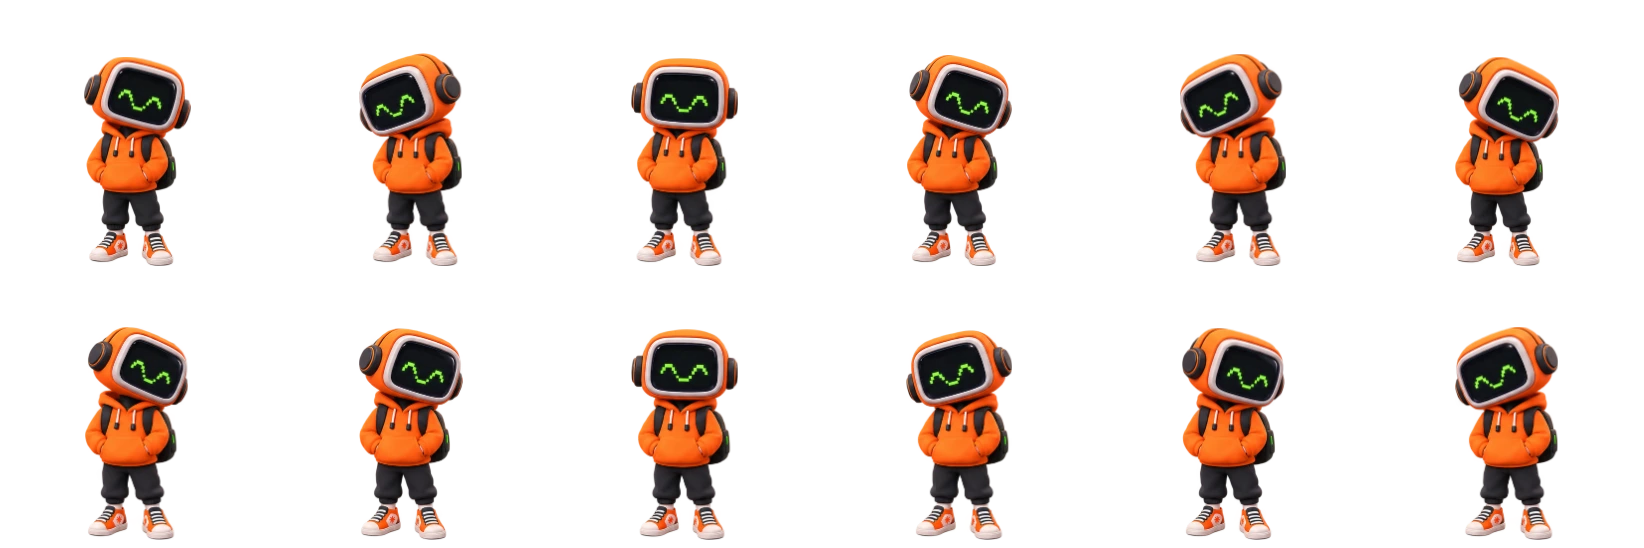
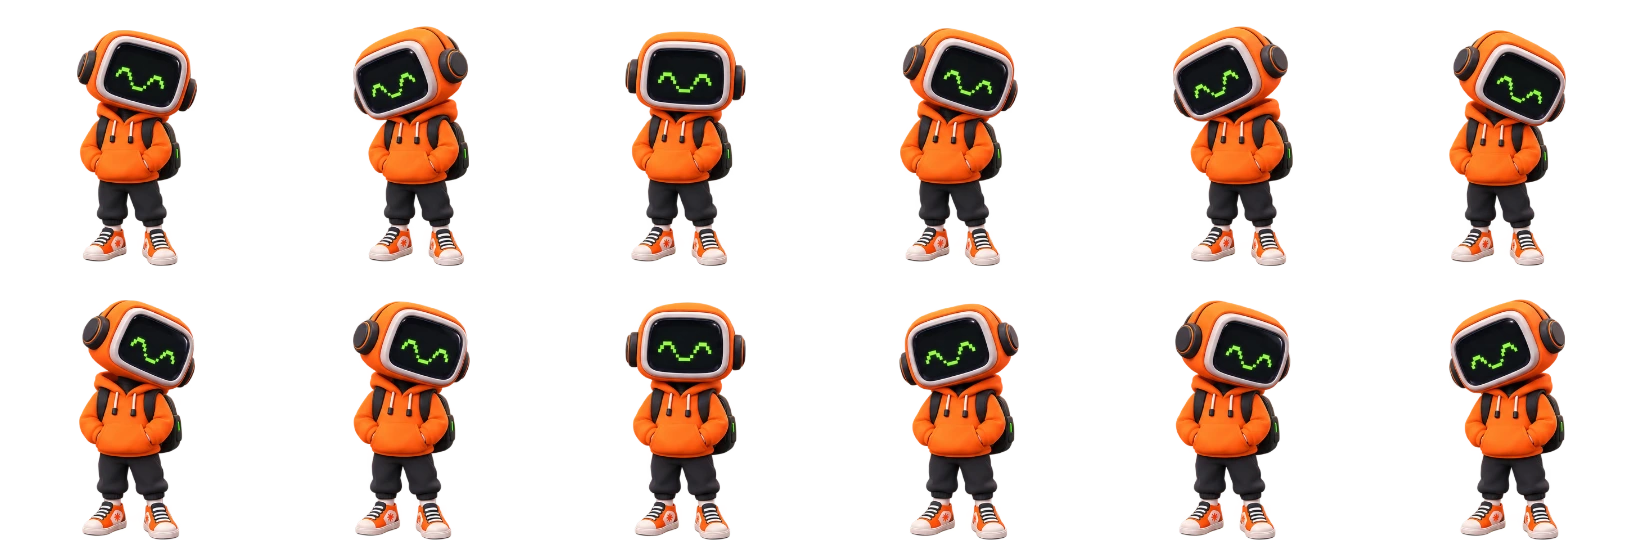
Swap in the moonwalk-only cycle, trigger it on hover, stand it on a plinth
HOVER, NOT CLICK, and that changes what the control is. A click is a request
that something happen; hover is only attention. So the moonwalk loops for
exactly as long as the pointer is on the character and drops back to vibing the
moment it leaves — nothing to finish, nothing to sit through. Focus does the
same, because hover is not available to everybody and a keyboard should not be
shut out of the one toy on the page.

That also lets both poses loop, where the dab had to play once: a dab has a
beginning and an end, a moonwalk is a cycle.

THE PLINTH sits behind the character, sized and placed in fractions of the
mascot's own width so the two cannot drift apart at any viewport. The character
stands about 40% down the stage rather than on its front edge at 47% — a step
back from the lip is where a figure has to be for a plinth to read as something
it is standing on. It also had to move up: flush above the strip there was no
room for the plinth's front face and the whole thing was a lip. The spotlight
is already in the file, as the top face's gradient; no light asset was added.

THE NORMALISER learned two things, both from this sheet.

Figures can TOUCH. MASCOT_MOONWALK_ONLY packs eight across 1536 at a 192px
pitch and neighbouring shoes overlap, so there is no empty column to split on:
band detection found five columns, not eight, and merged three figures into
one. But the sheet is still on a grid — the occupancy minima land within six
[…]

diff --git a/assets/js/sections.js b/assets/js/sections.js
@@ -1807,13 +1807,13 @@
        one-for-one — nine times normal through twelve frames is a flicker, not
        a dance — so it takes a fifth of the excess and caps at 1.8.
 
-       The moonwalk does NOT follow the strip. It is a performance someone
-       asked for, so it plays at its own tempo whatever the scroll is doing,
-       and it plays even while the strip is paused: a direct answer to a click
-       outranks the ambient state of the page. */
+       The moonwalk does NOT follow the strip. It is danced at somebody, so it
+       keeps its own tempo whatever the scroll is doing, and it dances even
+       while the strip is paused: a direct answer to a pointer outranks the
+       ambient state of the page. */
     const POSES = {
-      vibe: { cols: 6, rows: 2, frames: 12, cycle: 1900, loop: Infinity },
-      walk: { cols: 6, rows: 4, frames: 24, cycle: 2100, loop: 1 },
+      vibe: { cols: 6, rows: 2, frames: 12, cycle: 1900 },
+      walk: { cols: 8, rows: 3, frames: 24, cycle: 1500 },
     };
     const mascot = document.getElementById('sx-mv-mascot');
     let sprite = null, posing = false;
@@ -1841,7 +1841,7 @@
       const pose = POSES[name];
       mascot.dataset.pose = name;
       sprite = mascot.animate(poseKeys(pose),
-        { duration: pose.cycle, iterations: pose.loop });
+        { duration: pose.cycle, iterations: Infinity });
       return sprite;
     };
 
@@ -1906,44 +1906,65 @@
       else { if (posing && sprite) sprite.play(); applySpeed(); }
     });
 
-    /* --- asking for the moonwalk --- */
+    /* --- asking for the moonwalk ---
+       Hover, not click, and that changes what this control IS. A click is a
+       request that something happen; hover is only attention. So the moonwalk
+       loops for exactly as long as the pointer is on the character and drops
+       back to vibing the moment it leaves — nothing to finish, nothing to sit
+       through. That also lets both poses loop, where the dab sheet had to play
+       once: a dab has a beginning and an end, a moonwalk is a cycle.
+
+       Focus does the same thing, because hover is not available to everybody
+       and a keyboard should not be shut out of the one toy on the page. It is
+       also why this stays a <button>: the only element that is reliably
+       focusable and announced, and tabbing to it does what its label says. */
     if (mascot && mascot.animate) {
       playPose('vibe');
       applySpeed();
 
-      /* The walk sheet is 470KB and only ever wanted after a click, so it is
-         not fetched with the page. Hovering or tabbing to the mascot is the
-         intent signal; by the time the click lands it is usually decoded. */
-      let warm = null;
+      /* The walk sheet is only wanted once somebody reaches for the character,
+         so it is not fetched with the page. With a click there was a hover
+         beforehand to warm it; with hover there is no earlier signal, so the
+         first hover has to decode before it can switch — hence `wants`, which
+         catches the pointer having left while that was happening. */
+      let warm = null, wants = false;
       const preload = () => {
         if (warm) return warm;
         const img = new Image();
-        img.src = getComputedStyle(mascot, null)
-          .getPropertyValue('background-image')
-          .replace(/^url\(["']?/, '').replace(/["']?\)$/, '')
-          .replace('mascot_music_vibe', 'mascot_moonwalk_dab2');
+        img.src = getComputedStyle(mascot).getPropertyValue('--sx-mv-walk')
+          .trim().replace(/^url\(["']?/, '').replace(/["']?\)$/, '');
         warm = img.decode().catch(() => {});
         return warm;
       };
-      mascot.addEventListener('pointerenter', preload, { once: true });
-      mascot.addEventListener('focus', preload, { once: true });
 
-      mascot.addEventListener('click', async () => {
+      const dance = async () => {
         if (posing) return;
-        posing = true;
-        mascot.setAttribute('data-busy', '');
-        /* Decode before switching, or the first click on a cold cache swaps to
-           an image that is not there yet and the character blinks out. */
+        posing = true; wants = true;
         await preload();
-        const run = playPose('walk');
-        if (!run) { posing = false; mascot.removeAttribute('data-busy'); return; }
-        run.playbackRate = 1;
-        try { await run.finished; } catch { /* cancelled — pose already moved on */ }
+        if (!wants) { posing = false; return; }
+        playPose('walk');
+        sprite.playbackRate = 1;
+      };
+      const settle = () => {
+        wants = false;
+        if (!posing) return;
         posing = false;
-        mascot.removeAttribute('data-busy');
         playPose('vibe');
         applySpeed();
+      };
+
+      mascot.addEventListener('pointerenter', e => {
+        if (e.pointerType === 'touch') return;
+        dance();
       });
+      mascot.addEventListener('pointerleave', settle);
+      /* A pointer can vanish without leaving — captured elsewhere, or the
+         window goes away mid-hover — and the character is left dancing to
+         nobody. */
+      mascot.addEventListener('pointercancel', settle);
+      addEventListener('blur', settle);
+      mascot.addEventListener('focus', dance);
+      mascot.addEventListener('blur', settle);
     }
 
     /* The strip used to bend away at both ends — each cell turned about Y by

diff --git a/assets/css/sections.css b/assets/css/sections.css
@@ -509,12 +509,18 @@
 
    WebP: 143KB and 470KB against 1.5MB and 2.1MB as PNG. This page already
    needs container queries, which need a newer browser than WebP does. */
+.sx-mv-lede { --sx-mv-w: clamp(120px, 13vw, 210px); }
 .sx-mv-mascot {
   position: absolute;
-  right: 0;
-  bottom: -1.25rem;
+  /* Standing ON the plinth, so both numbers are the plinth's geometry rather
+     than the section's: far enough in from the right to sit near the middle of
+     the surface, and high enough that the plinth's front face has somewhere to
+     be. It used to sit flush above the strip, which left the plinth nothing
+     but a lip. */
+  right: calc(var(--sx-mv-w) * 0.55);
+  bottom: calc(var(--sx-mv-w) * 0.386);
   z-index: 1;
-  width: clamp(120px, 13vw, 210px);
+  width: var(--sx-mv-w);
   aspect-ratio: 1;
   padding: 0;
   border: 0;
@@ -533,12 +539,43 @@
   background-image: url("../../public/img/mascot_music_vibe.webp");
   background-size: 600% 200%;
 }
+/* The walk sheet's URL also lives as a custom property, because the preloader
+   has to know it before the pose has switched to it. One place to change. */
+.sx-mv-mascot { --sx-mv-walk: url("../../public/img/MASCOT_MOONWALK_ONLY.webp"); }
 .sx-mv-mascot[data-pose="walk"] {
-  background-image: url("../../public/img/mascot_moonwalk_dab2.webp");
-  background-size: 600% 400%;
+  background-image: var(--sx-mv-walk);
+  background-size: 800% 300%;
 }
+/* --- the stage ---
+   The plinth the character stands on. Sits behind the mascot and is sized off
+   it, so the two cannot drift apart: the SVG's own top face ends 105 of its
+   224 units down, which is the line the feet have to meet.
+
+   Its own gradients fade to transparent at both far edges, so it needs no mask
+   and no ground of its own — it simply thins out into the page. */
+.sx-mv-stage {
+  position: absolute;
+  z-index: 0;
+  pointer-events: none;
+  width: calc(var(--sx-mv-w) * 2.35);
+  aspect-ratio: 763 / 224;
+  /* Both offsets are fractions of the mascot's width, so the character and the
+     thing it stands on cannot drift apart at any viewport size.
+
+     The vertical number puts the feet about 40% down the stage rather than on
+     its front edge at 47% — standing ON the surface, a step back from the lip,
+     which is where a figure has to be for the plinth to read as something it
+     is on rather than something it is balanced against. */
+  bottom: 0;
+  right: 0;
+  background: url("../../public/img/mascot-dance-platform.svg") no-repeat center/contain;
+  opacity: .9;
+}
+
 /* It is a control, so it says so — but quietly. A character that grows under
-   the pointer is the whole affordance; a border would make it a widget. */
+   the pointer is the whole affordance; a border would make it a widget. The
+   stage does not grow with it: a plinth that scales is a picture of a plinth,
+   not a thing being stood on. */
 @media (hover: hover) {
   .sx-mv-mascot:hover { transform: scale(1.05); opacity: 1; }
 }
@@ -616,7 +653,7 @@
 }
 
 @media (max-width: 860px) {
-  .sx-mv-mascot { display: none; }
+  .sx-mv-mascot, .sx-mv-stage { display: none; }
   .sx-mv-head { max-width: none; }
 }
 
@@ -638,6 +675,7 @@
      than staying one that does nothing. JS drops its button semantics to
      match; this is the half that stops it looking clickable. */
   #sx-move .sx-mv-mascot { cursor: default; pointer-events: none; }
+  #sx-move .sx-mv-stage { opacity: .9; }
   #sx-move .sx-reel-strip { animation: none; transform: none; }
   #sx-move .sx-reel {
     overflow-x: auto;

diff --git a/prototype/index.html b/prototype/index.html
@@ -945,8 +945,9 @@
            state, the moonwalk is a one-shot it returns from. Frame 0 of the
            vibe is a standing pose, so with no script the character is simply
            standing there. -->
+      <span class="sx-mv-stage" aria-hidden="true"></span>
       <button class="sx-mv-mascot" id="sx-mv-mascot" type="button"
-              data-pose="vibe" aria-label="Play the mascot's moonwalk"></button>
+              data-pose="vibe" aria-label="Make the mascot dance"></button>
     </div>
 
       <div class="sx-reel" id="sx-reel" data-reveal>

diff --git a/docs/pending-art.md b/docs/pending-art.md
@@ -62,81 +62,88 @@ themselves"* says the same thing in the reader's words. Left as drawn.
 
 # Things that move
 
-## The mascot — two poses, delivered
+## The mascot — two poses on a plinth
 
 | Sheet | Grid | Frames | Role |
 | --- | --- | --- | --- |
-| `mascot_music_vibe.png` | 6 × 2 | 12 | **Default.** Vibing to the music, on a loop |
-| `mascot_moonwalk_dab2.png` | 6 × 4 | 24 | **On click.** Moonwalk into a dab, plays once, returns to vibing |
+| `mascot_music_vibe.png` | 6 × 2 | 12 | **Default.** Vibing to the music |
+| `MASCOT_MOONWALK_ONLY.png` | 8 × 3 | 24 | **On hover / focus.** Moonwalks for as long as you stay on it |
+| `mascot_moonwalk_dab2.png` | 6 × 4 | 24 | *Kept for revert.* The moonwalk-into-dab it replaced |
 
-Clicking the character plays the moonwalk and it goes back to vibing. It is a
-real button: keyboard-reachable, Enter and Space work, and it has a focus ring.
-Under reduced motion there is no sprite to play, so JS strips the button
-semantics rather than leaving a labelled control that answers Enter with
-nothing.
+Hover the character and it moonwalks; move away and it goes back to vibing.
+Focus does the same, so a keyboard is not shut out of it. Both poses loop —
+the dab sheet had to play once because a dab has a beginning and an end, but a
+moonwalk is a cycle and it runs while you are looking at it.
+
+**To revert to the dab**, change two things: `POSES.walk` in
+`assets/js/sections.js` back to `{ cols: 6, rows: 4, frames: 24, cycle: 2100 }`,
+and `--sx-mv-walk` plus the `[data-pose="walk"]` `background-size` in the CSS
+back to `mascot_moonwalk_dab2.webp` / `600% 400%`. Both `.webp` files are
+already built, so nothing needs regenerating.
 
 The vibe's rate follows the strip's — it dances faster while the reel is coming
-in fast and settles as the reel settles, at a fifth of the strip's excess and
-capped at 1.8×. The moonwalk does not follow the strip: it is a performance
-someone asked for, so it plays at its own tempo, and it plays even while the
-strip is paused. A direct answer to a click outranks the ambient state.
+in fast — at a fifth of the strip's excess, capped at 1.8×. The moonwalk does
+not follow it: it is danced at somebody, so it keeps its own tempo, and it
+dances even while the strip is paused. A direct answer to a pointer outranks
+the ambient state.
+
+### The plinth
+
+`mascot-dance-platform.svg` (renamed from `MASCOT DANCE PLATFORM.svg` — spaces
+and capitals in a URL are avoidable trouble). It sits behind the character and
+is sized and placed in fractions of the mascot's own width, so the two cannot
+drift apart at any viewport. The character stands about 40% down the stage
+rather than on its front edge at 47%: a step back from the lip is where a
+figure has to be for a plinth to read as something it is standing ON.
+
+The "spotlight" is already in the file — the top face's gradient runs from
+`#553220` to transparent across the surface, which is light falling on it, and
+the front face fades downward the same way. No separate light asset is needed
+and none was added. If you want an actual cone of light above it, say so; it
+is a gradient, not a file.
 
 ### The sheets the page loads are generated
 
-`mascot_music_vibe.webp` and `mascot_moonwalk_dab2.webp`, built by
-`tools/normalize-sprite.mjs` **in one run**. Two separate problems make this
-necessary, and the second is the one that bites.
+All three, by `tools/normalize-sprite.mjs`, **in one run**. Three separate
+problems, and each one only shows up once you look:
 
-**Each sheet is off its own grid.** They read as even — six across, evenly
-spaced. Measured, the moonwalk's row pitches are **271, 251 and 234px** and its
-columns run **240 to 262**. That is what an image model produces: figures
-placed approximately. A CSS window stepping by a fixed fraction shows most of
-the intended frame plus the feet of the one above.
+**Each sheet is off its own grid.** The moonwalk-dab's row pitches are 271, 251
+and 234px. A window stepping by a fixed fraction shows most of the intended
+frame plus the feet of the one above.
 
-**The two sheets are drawn at different sizes.** The vibe figures are **428px**
-tall; the moonwalk's are **208**. The same character, about twice as large.
-Normalised separately, each sheet would be internally perfect and the mascot
-would still double in size the instant it changed pose.
+**Figures can touch.** `MASCOT_MOONWALK_ONLY` packs eight across 1536 at a
+192px pitch and neighbouring shoes overlap, so there is no empty column to
+split on — band detection found five columns, not eight. The tool now falls
+back to splitting at the quietest column near each nominal boundary, which for
+this sheet lands within six pixels of every one.
 
-So the tool takes both at once, scales them to a common standing height (each
-sheet's shortest figure is its most compact pose), and draws every frame into
-one shared 274px cell, centred and standing on a common baseline. Within a
-sheet figures keep their relative scale — a raised arm should make a frame
-taller, and flattening heights would squash exactly the dab poses that need
-the room.
+**The sheets are drawn at different sizes.** The vibe figures are 428px tall
+and the dab's are 208 — the same character at twice the scale. Normalised
+separately each sheet is internally perfect and the mascot still changes size
+the instant it changes pose.
 
-**Re-run it whenever either sheet is re-exported — and always pass both**, or
-they will drift apart in size again:
+So every sheet in a run is scaled to a common MEDIAN figure height and drawn
+into one shared 274px cell on one baseline. Median, not shortest: a walk's most
+compressed frame is an outlier, and anchoring on it floated the moonwalk to a
+median of 244 against the vibe's 212 — a 15% growth on hover. Head width was
+tried as a pose-invariant anchor and is not one; on the dab sheet it reads an
+arm across the face as a 30% bigger head. All three now sit at 239.
+
+**Always pass every sheet in one command**, or they drift apart again:
 
 ```bash
 node tools/normalize-sprite.mjs public/img \
   public/img/mascot_music_vibe.png:6x2 \
+  public/img/MASCOT_MOONWALK_ONLY.png:8x3 \
   public/img/mascot_moonwalk_dab2.png:6x4
 ```
 
-It fails loudly if a sheet does not contain exactly the grid you claim, which
-is the check worth having — a silently wrong grid is the bug it exists to
-prevent. If a frame count or grid changes, the `POSES` table in
-`assets/js/sections.js` follows it, and each pose's `background-size` in the
-CSS.
-
 ### Weight
 
-143KB and 470KB as WebP, against 1.5MB and 2.1MB as PNG. The two PNG masters
-stay in the repo as the tool's input and are never requested by the page.
-WebP needs Safari 14; this page already needs container queries, which need
-Safari 16, so it costs no reach.
-
-The walk sheet is not fetched with the page — hovering or tabbing to the
-mascot warms it, and the click decodes before switching so a cold first click
-never blinks the character out.
-
-### Worth knowing
-
-Frames render at up to 210px from 274px cells, so about 1.3× — fine on a
-standard display, slightly soft on a retina one. Sharper means a bigger master;
-for a character bobbing at the edge of a section this is the right trade unless
-you disagree.
+176KB, 323KB and 470KB as WebP against 1.5MB, 1.6MB and 2.1MB as PNG. The PNG
+masters stay in the repo as the tool's input and are never requested. The walk
+sheet is not fetched with the page — the first hover decodes it before
+switching, so a cold first hover never blinks the character out.
 
 ## The fourteen tiles
 
